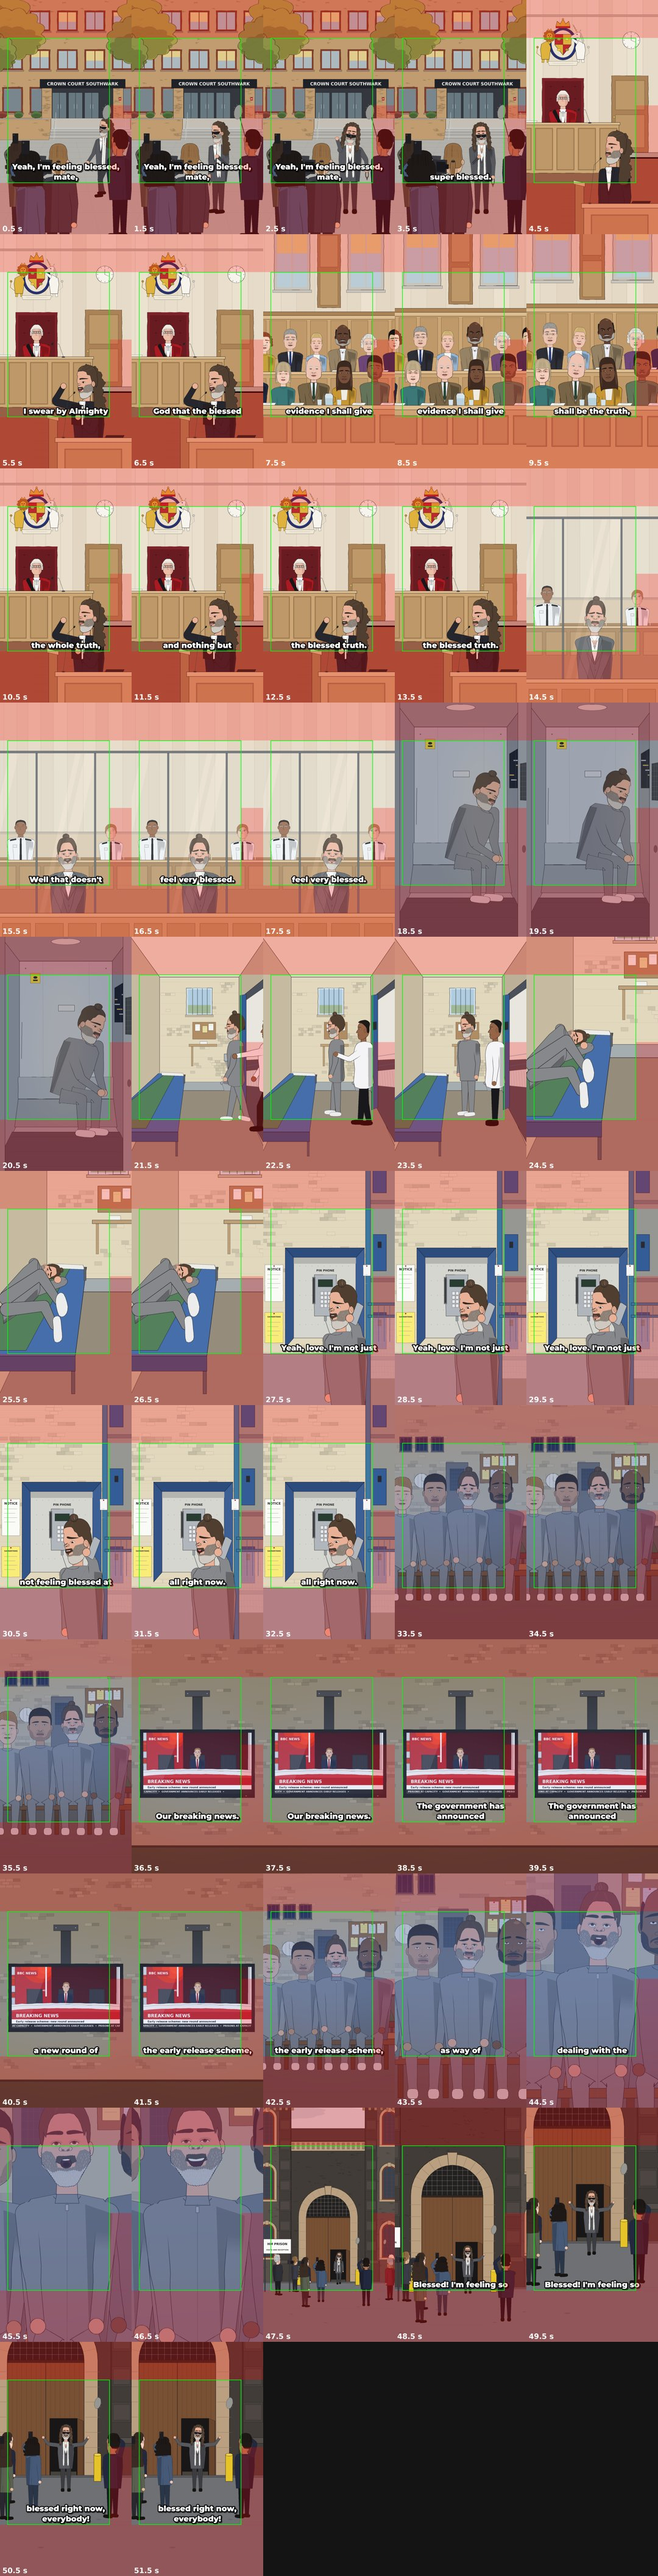
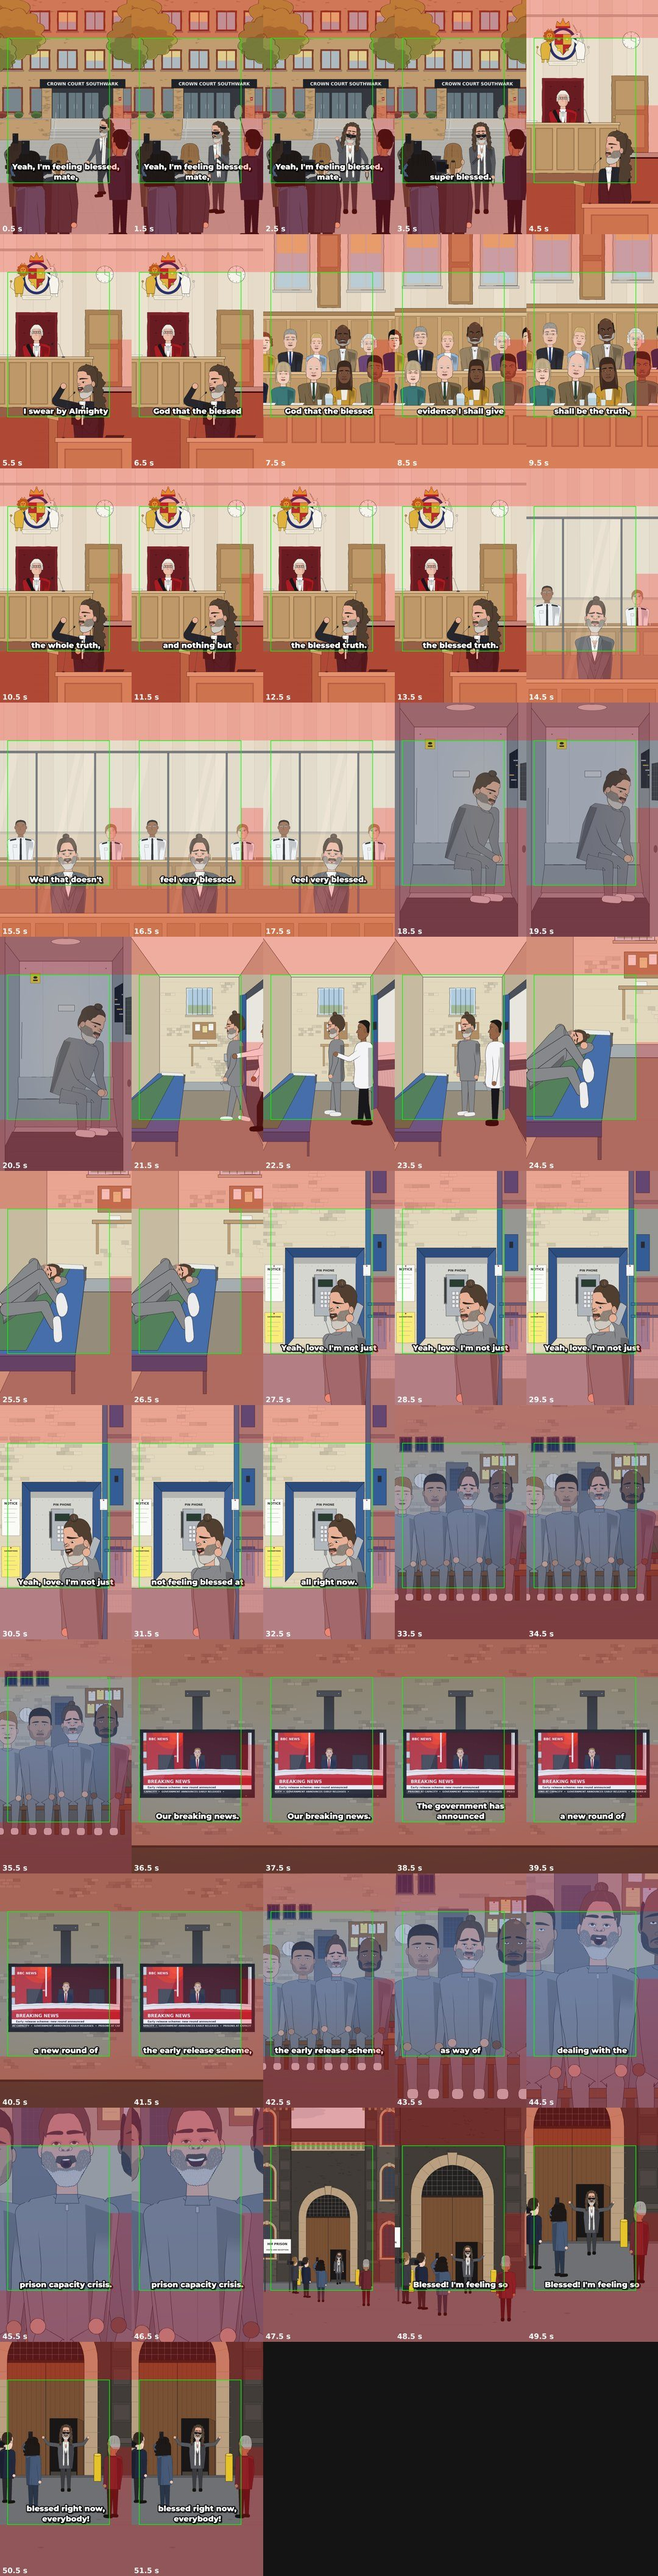
Blessed chat 3: handover (budget stop before animatic 1); check sheet; pre-flight's 17 faults listed
Claude-Session: https://claude.ai/code/session_01GznaAUivyLE32965U15qGS

diff --git a/notes/blessed.md b/notes/blessed.md
@@ -1,13 +1,14 @@
 # Notes for BLESSED (one file, numbered; mark each done as it is fixed)
 
 ## Where things stand (the ONE handover)
-- **Rules that bite next:** 67 (one full pre-flight, then the check sheet with the Hook Text frame), 13 (SET_FEET missing), 59.
-- **Done (12 Nov, chat 2 of 8, Sonnet):** Bible bigger with a pale edge; ink-edged sleeve on the heart-hand; phone eyes open, looking down (new 'phone' mood). One full pre-flight run (9 min): picture checks clean; the rest is named below. Check sheet `notes/sheets/blessed-check-sheet.jpg` and Hook Text frame `notes/sheets/blessed-hook-frame.jpg` sent to Sam.
-- **Needs Sam (12 Nov, he said YY):** chat 3 of 8 is Opus high: build the missing checks FIRST (see Next). Then Y or N for animatic 1 (about 5 min to render; needs `--faults-named`). Also a look at the jury clip and the movement clips.
-- **Next: Opus, high effort.** Type: "Blessed: write the missing checks (SET_FEET and movers, scene(t) for the audit, LINE_SUBJECTS, pupils clipped to the eye, camera plan for the shots with none, newsreader mouth at 50.8 s); fix every fault they find; one full pre-flight; then the sheet." Animatic 1 waits for a new Y.
-- **Read:** `guides/job-packs.md` Checks and animatic; this section.
-- **Open rule requests:** none.
-- **For Claude (chat 2):** named, not fixed (no speech-to-text here to re-time): subtitle timing off 0.4-0.8 s on lines 2, 4, 5; newsreader line 5 recording has ~3 more syllables than the script at 10.4 s (listen); newsreader mouth shut 50.8-51.7 s; six captions too fast (lines 2, 5); no SET_FEET/audits/LINE_SUBJECTS/scene(t) (template gaps); pupils not clipped (S5). Figure-guard arm lines are 'allowed'. Older notes: the --text run (48 faults) shows "SHOT CAST: never on screen" for every shot: the text mode draws no frames, so judge it from the full run. Named, not changed (hunt 2): the oath Bible is small at phone size; at the phone his eyes read shut (head down, tearful); hand-on-heart forearm merges with the jacket (same grey). Still open from chat 10: newsreader mouth still at 50.8 s ("stop overcrowding"), fast captions (lines 2, 3, 5), SET_FEET/movers/SET_CAM (rule 13), no court_jury rows in SET_BOXES/BENCHMARK (rule 83/3), pupils not clipped to the eye in blessed_cast (S5). Ledger fixed by hand: the hunt 2 pack reused folder r1-p1 and `record` overwrote hunt 1; both passes restored in notes/ledger/blessed.json. Hunt 2 spec in the scratchpad was not kept.
+- **Rules that bite next:** 59 (the 17 picture faults below are fixed or named before any animatic), 67 (one full pre-flight, about 15 min now), 85 (chat 3 stopped on budget: about 3.3% of a week against Sam's 1-1.5%).
+- **Done (12 Nov, chat 3 of 8, Opus):** every missing check built and wired in (`blessed_checks.py`): where everyone stands in metres (collisions, who is on screen), each body alone over its frames (pieces, pops, frozen), line work, walking against the set's solid things in the three walking shots, a camera in the plan for every shot, eyes measured (pupils stay inside), tears and TV light as effects (HAS now has effects), the jury, van and gate sets in the overlap list, the jury box benchmarked. Faults they found, fixed: newsreader line 5 now ends where she is last heard (the "mouth shut at 50.8 s" and "3 extra syllables" faults were the faded part of the take); six too-fast subtitles given room (pieces up to 0.3 s early); stubbled jaws re-inked; a journalist moved off the gate sign's edge; jury SHOT_CAST is the ten jurors in frame (1 and 6 sit outside it). Kit: setcheck takes a set per shot (kittest `moving_figures_per_shot`) and its own `set_movers` (it clashed with viewchecks' `movers`). Quick check clean. One full pre-flight (14 min 46 s): 17 faults, none fixed (budget stop). Check sheet `notes/sheets/blessed-check-sheet.jpg`, Hook Text frame `notes/sheets/blessed-hook-frame.jpg`; full list `notes/ledger/blessed-preflight-chat3.txt`.
+- **What the checks found (plain):** the earlier "picture checks clean" was not the whole film: with the checks switched on, 17 picture faults show. Hands: journalists' and Brand's hands hidden at times (van, press seen from behind), his hand off the Bible at the start and end of the oath, shoulder seams on his arms in the arrival, the officer's grip not listed as meant. The cot: he lies on his back, head away, so his face cannot be drawn right (rule 42). Cuts: arms drop back to rest just before three cuts (rule 72). The judge holds dead still 2.5 s in both oath shots. The famous-face size check never found Brand (name mismatch), and the turnaround sheet was skipped (no PEOPLE entry): two more checks not running.
+- **Needs Sam:** Y to spend about 1.5% more to fix the 17 and render animatic 1 (my pick), or N to stop.
+- **Next: Opus, medium effort** (fixes from a clear list). Type: "Blessed: fix the 17 pre-flight faults in notes/blessed.md Where things stand, then ONE full pre-flight, the check sheet with the Hook Text frame, and animatic 1. Read CLAUDE.md, then notes/blessed.md Where things stand."
+- **Read:** `guides/job-packs.md` Checks and animatic; `guides/satire.md` "If a check fails"; this section.
+- **Open rule requests:** none in the notes. (Sam's pre-flight "never clean while a check is skipped" change sits in the system audit job, `notes/system-audit-12-nov.md`.)
+- **For Claude (chat 3):** the 17 (txt above): HANDS journalist R arm covered (arrive, gates2: from behind, likely name in an allow-list with why); Brand L arm holds hidden 2.00 s; rule 81 shoulder lines 2.17, 3.08; oath hand off the Bible 4.83 (1.1 hand-widths) and 13.75; van R hand covered (clasped); escort officer's hand over Brand (the grip: list it as a touch); POSE cot (lying.lie 'side' reads as back, head away: turn him to face the lens, COT_AT yaw); CUT rests 4.25 journalist L, 14.00 Brand L (oath arms-down plan), 48.50 journalist R (hold or CUT_RESTS_OK with why); FACES: FAMOUS=['brand'] but drawn name is 'Russell Brand' (kitchecks.faces); judge frozen (give put_seated judge small shifts or head life); turnaround sheet skipped: no PEOPLE entry. blessed.py is 1,182 lines (rule 61 warning: split the shots out). Sheets' Hook frame: frame_image(1.0) + hook_text.card. Cost read: costwatch.read_usage on this chat's transcript, $9.63 = 3.3%.
 ## Sam's answers (11 Nov): 1 FULL (19%); 2 Y gavel kept; 3 Y joke as written; 4 Y invented judge; 5 Y BBC News look and lettering; 6 Y press pack at the gates; 7 Y trial look at the gates, tracksuit and topknot in prison; 8 sincere showman; 9 quiet, to himself
 
 ## Plan extras: the estimate (Sam chose FULL, 19%: every place drawn in full, TV-room inmates as real Glimpse figures, two notes rounds; the lean rows below plus: sets +1.2 (van and TV room as full paintings, cell and phone separate), cast +0.4 (two inmates), round2 2.5)

diff --git a/notes/archive/blessed-handovers.md b/notes/archive/blessed-handovers.md
@@ -149,3 +149,13 @@ Second Coming?", "he owns the stage").
    held poses on phone-sized frames).
 The showman is the arrival, the oath (held in: bolt upright, only the chin lifts) and the gates; prison has none of it.
 
+
+
+## Where things stand before chat 3 of 8 (12 Nov)
+- **Rules that bite next:** 67 (one full pre-flight, then the check sheet with the Hook Text frame), 13 (SET_FEET missing), 59.
+- **Done (12 Nov, chat 2 of 8, Sonnet):** Bible bigger with a pale edge; ink-edged sleeve on the heart-hand; phone eyes open, looking down (new 'phone' mood). One full pre-flight run (9 min): picture checks clean; the rest is named below. Check sheet `notes/sheets/blessed-check-sheet.jpg` and Hook Text frame `notes/sheets/blessed-hook-frame.jpg` sent to Sam.
+- **Needs Sam (12 Nov, he said YY):** chat 3 of 8 is Opus high: build the missing checks FIRST (see Next). Then Y or N for animatic 1 (about 5 min to render; needs `--faults-named`). Also a look at the jury clip and the movement clips.
+- **Next: Opus, high effort.** Type: "Blessed: write the missing checks (SET_FEET and movers, scene(t) for the audit, LINE_SUBJECTS, pupils clipped to the eye, camera plan for the shots with none, newsreader mouth at 50.8 s); fix every fault they find; one full pre-flight; then the sheet." Animatic 1 waits for a new Y.
+- **Read:** `guides/job-packs.md` Checks and animatic; this section.
+- **Open rule requests:** none.
+- **For Claude (chat 2):** named, not fixed (no speech-to-text here to re-time): subtitle timing off 0.4-0.8 s on lines 2, 4, 5; newsreader line 5 recording has ~3 more syllables than the script at 10.4 s (listen); newsreader mouth shut 50.8-51.7 s; six captions too fast (lines 2, 5); no SET_FEET/audits/LINE_SUBJECTS/scene(t) (template gaps); pupils not clipped (S5). Figure-guard arm lines are 'allowed'. Older notes: the --text run (48 faults) shows "SHOT CAST: never on screen" for every shot: the text mode draws no frames, so judge it from the full run. Named, not changed (hunt 2): the oath Bible is small at phone size; at the phone his eyes read shut (head down, tearful); hand-on-heart forearm merges with the jacket (same grey). Still open from chat 10: newsreader mouth still at 50.8 s ("stop overcrowding"), fast captions (lines 2, 3, 5), SET_FEET/movers/SET_CAM (rule 13), no court_jury rows in SET_BOXES/BENCHMARK (rule 83/3), pupils not clipped to the eye in blessed_cast (S5). Ledger fixed by hand: the hunt 2 pack reused folder r1-p1 and `record` overwrote hunt 1; both passes restored in notes/ledger/blessed.json. Hunt 2 spec in the scratchpad was not kept.

diff --git a/story/status.md b/story/status.md
@@ -1,7 +1,8 @@
 - House look (12 Nov, Sam: Y to all): paper, edges, shadows per shape, on twos. Next: new Opus high chat "Build the house look: paper, edges, shadows (S7)". Notes: notes/house-look.md.
 - System audit (12 Nov, Sam: all Y): plain-language plan in notes/system-audit-12-nov.md; runs after Blessed's animatic 1, own budget (~3.5%).
-- Blessed (12 Nov, chat 12, Opus medium): critique hunts 1 and 2 fixed, gate clear. Next: Sonnet chat: one full
-  pre-flight, then the check sheet with the Hook Text frame; Sam's yes on animatic 1. Notes: notes/blessed.md.
+- Blessed (12 Nov, chat 3 of 8, Opus): the missing checks built; their faults fixed; full pre-flight found 17 picture
+  faults; stopped on budget (3.3% vs 1-1.5%) before animatic 1. Needs Sam: Y for ~1.5% more. Next: Opus medium, fix
+  the 17, pre-flight, animatic 1. Notes: notes/blessed.md.
 remakes: Sam's notes on the final (76 tower boots, 77 wipe entrance) fixed 11 Nov, clip sent; Sam said Y: Sonnet chat re-rendering the final.
 Next: Sonnet chat, final render, send to Sam.
 Model: Sonnet, medium.
